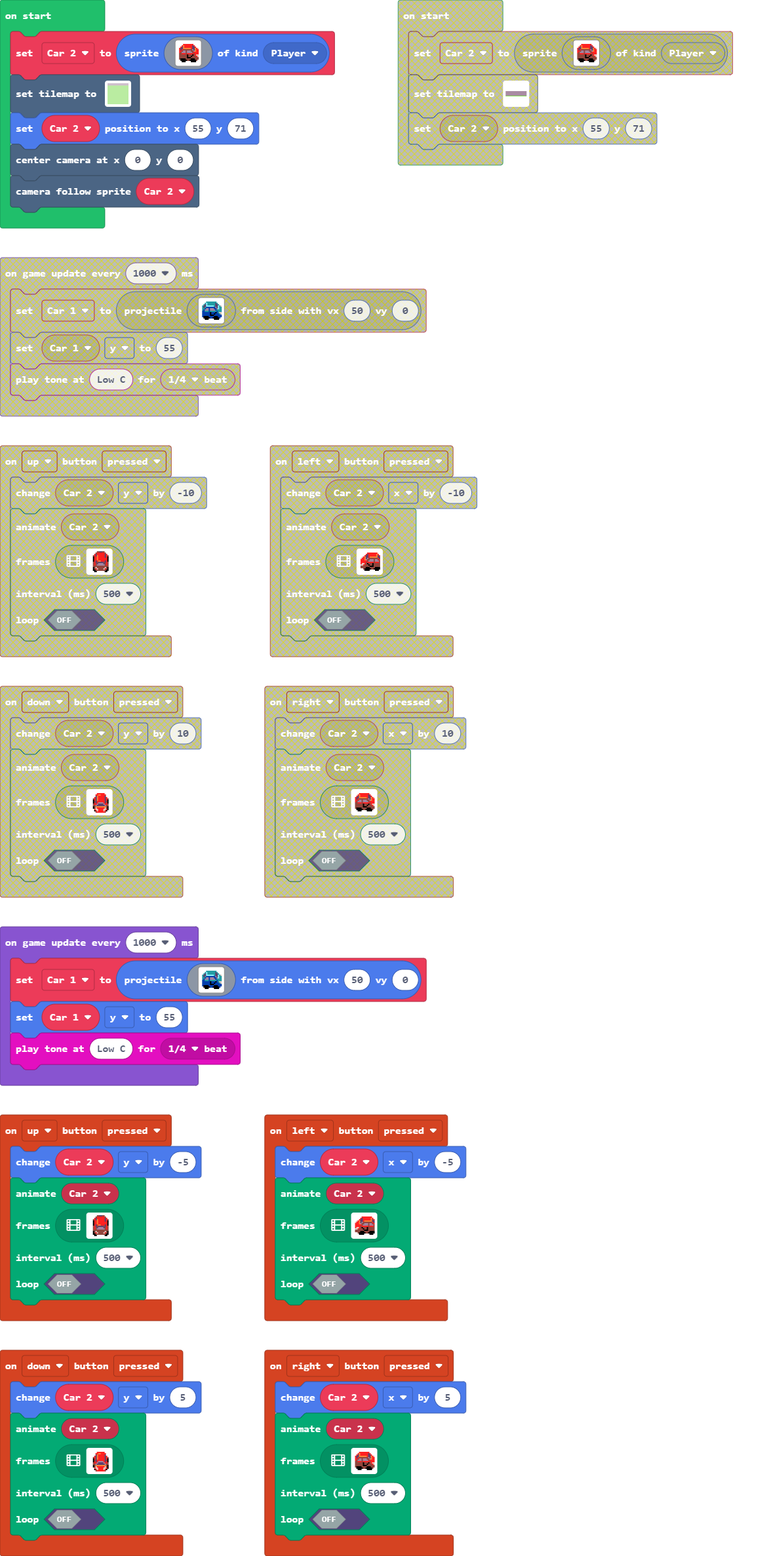
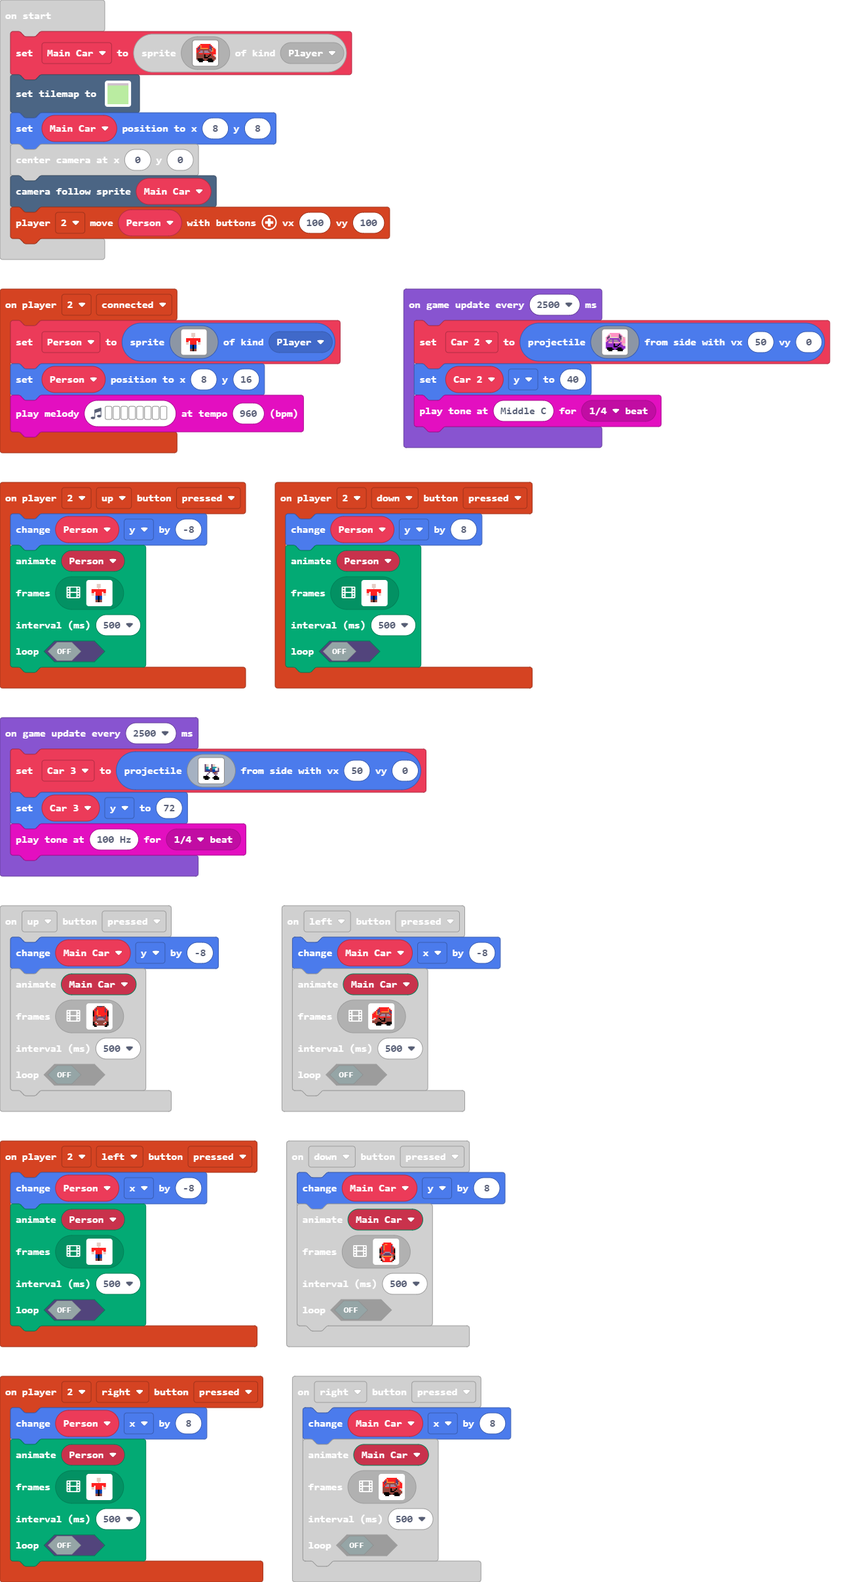
Update main.blocks, main.ts, tilemap.g.jres, tilemap.g.ts

diff --git a/main.ts b/main.ts
@@ -1,7 +1,12 @@
+enum ActionKind {
+    Walking,
+    Idle,
+    Jumping
+}
 controller.up.onEvent(ControllerButtonEvent.Pressed, function () {
-    Car_2.y += -5
+    Main_Car.y += -8
     animation.runImageAnimation(
-    Car_2,
+    Main_Car,
     [img`
         . . . . . . e e c c e e . . . . 
         . . . . . e 2 2 2 2 2 2 e . . . 
@@ -24,10 +29,36 @@ controller.up.onEvent(ControllerButtonEvent.Pressed, function () {
     false
     )
 })
-controller.left.onEvent(ControllerButtonEvent.Pressed, function () {
-    Car_2.x += -5
+controller.player2.onButtonEvent(ControllerButton.Down, ControllerButtonEvent.Pressed, function () {
+    Person.y += 8
     animation.runImageAnimation(
-    Car_2,
+    Person,
+    [img`
+        . . . . . . . . . . . . . . . . 
+        . . . . . . d d d . . . . . . . 
+        . . . . . . d d d . . . . . . . 
+        . . . . . . d d d . . . . . . . 
+        . . . . . . . d . . . . . . . . 
+        . . 2 2 2 2 2 2 2 2 2 2 2 . . . 
+        . . 2 2 2 2 2 2 2 2 2 2 2 . . . 
+        . . 2 2 . 2 2 2 2 2 . 2 2 . . . 
+        . . d d . 2 2 2 2 2 . d d . . . 
+        . . d d . 2 2 2 2 2 . d d . . . 
+        . . . . . 8 8 f 8 8 . . . . . . 
+        . . . . . 8 8 f 8 8 . . . . . . 
+        . . . . . 8 8 f 8 8 . . . . . . 
+        . . . . . e e f e e . . . . . . 
+        . . . . . e e f e e . . . . . . 
+        . . . . . . . . . . . . . . . . 
+        `],
+    500,
+    false
+    )
+})
+controller.left.onEvent(ControllerButtonEvent.Pressed, function () {
+    Main_Car.x += -8
+    animation.runImageAnimation(
+    Main_Car,
     [img`
         . . . . . . . . . . . . . . . . 
         . . . . . . 2 2 2 2 2 2 2 2 . . 
@@ -50,10 +81,36 @@ controller.left.onEvent(ControllerButtonEvent.Pressed, function () {
     false
     )
 })
-controller.right.onEvent(ControllerButtonEvent.Pressed, function () {
-    Car_2.x += 5
+controller.player2.onButtonEvent(ControllerButton.Up, ControllerButtonEvent.Pressed, function () {
+    Person.y += -8
     animation.runImageAnimation(
-    Car_2,
+    Person,
+    [img`
+        . . . . . . . . . . . . . . . . 
+        . . . . . . d d d . . . . . . . 
+        . . . . . . d d d . . . . . . . 
+        . . . . . . d d d . . . . . . . 
+        . . . . . . . d . . . . . . . . 
+        . . 2 2 2 2 2 2 2 2 2 2 2 . . . 
+        . . 2 2 2 2 2 2 2 2 2 2 2 . . . 
+        . . 2 2 . 2 2 2 2 2 . 2 2 . . . 
+        . . d d . 2 2 2 2 2 . d d . . . 
+        . . d d . 2 2 2 2 2 . d d . . . 
+        . . . . . 8 8 f 8 8 . . . . . . 
+        . . . . . 8 8 f 8 8 . . . . . . 
+        . . . . . 8 8 f 8 8 . . . . . . 
+        . . . . . e e f e e . . . . . . 
+        . . . . . e e f e e . . . . . . 
+        . . . . . . . . . . . . . . . . 
+        `],
+    500,
+    false
+    )
+})
+controller.right.onEvent(ControllerButtonEvent.Pressed, function () {
+    Main_Car.x += 8
+    animation.runImageAnimation(
+    Main_Car,
     [img`
         . . . . . . . . . . . . . . . . 
         . . . . 2 2 2 2 2 2 2 2 . . . . 
@@ -76,10 +133,36 @@ controller.right.onEvent(ControllerButtonEvent.Pressed, function () {
     false
     )
 })
-controller.down.onEvent(ControllerButtonEvent.Pressed, function () {
-    Car_2.y += 5
+controller.player2.onButtonEvent(ControllerButton.Right, ControllerButtonEvent.Pressed, function () {
+    Person.x += 8
     animation.runImageAnimation(
-    Car_2,
+    Person,
+    [img`
+        . . . . . . . . . . . . . . . . 
+        . . . . . . d d d . . . . . . . 
+        . . . . . . d d d . . . . . . . 
+        . . . . . . d d d . . . . . . . 
+        . . . . . . . d . . . . . . . . 
+        . . 2 2 2 2 2 2 2 2 2 2 2 . . . 
+        . . 2 2 2 2 2 2 2 2 2 2 2 . . . 
+        . . 2 2 . 2 2 2 2 2 . 2 2 . . . 
+        . . d d . 2 2 2 2 2 . d d . . . 
+        . . d d . 2 2 2 2 2 . d d . . . 
+        . . . . . 8 8 f 8 8 . . . . . . 
+        . . . . . 8 8 f 8 8 . . . . . . 
+        . . . . . 8 8 f 8 8 . . . . . . 
+        . . . . . e e f e e . . . . . . 
+        . . . . . e e f e e . . . . . . 
+        . . . . . . . . . . . . . . . . 
+        `],
+    500,
+    false
+    )
+})
+controller.down.onEvent(ControllerButtonEvent.Pressed, function () {
+    Main_Car.y += 8
+    animation.runImageAnimation(
+    Main_Car,
     [img`
         . . . . . . . . . . . . . . . . 
         . . . . . . 2 2 2 2 2 2 . . . . 
@@ -102,9 +185,60 @@ controller.down.onEvent(ControllerButtonEvent.Pressed, function () {
     false
     )
 })
+controller.player2.onButtonEvent(ControllerButton.Left, ControllerButtonEvent.Pressed, function () {
+    Person.x += -8
+    animation.runImageAnimation(
+    Person,
+    [img`
+        . . . . . . . . . . . . . . . . 
+        . . . . . . d d d . . . . . . . 
+        . . . . . . d d d . . . . . . . 
+        . . . . . . d d d . . . . . . . 
+        . . . . . . . d . . . . . . . . 
+        . . 2 2 2 2 2 2 2 2 2 2 2 . . . 
+        . . 2 2 2 2 2 2 2 2 2 2 2 . . . 
+        . . 2 2 . 2 2 2 2 2 . 2 2 . . . 
+        . . d d . 2 2 2 2 2 . d d . . . 
+        . . d d . 2 2 2 2 2 . d d . . . 
+        . . . . . 8 8 f 8 8 . . . . . . 
+        . . . . . 8 8 f 8 8 . . . . . . 
+        . . . . . 8 8 f 8 8 . . . . . . 
+        . . . . . e e f e e . . . . . . 
+        . . . . . e e f e e . . . . . . 
+        . . . . . . . . . . . . . . . . 
+        `],
+    500,
+    false
+    )
+})
+controller.player2.onEvent(ControllerEvent.Connected, function () {
+    Person = sprites.create(img`
+        . . . . . . . . . . . . . . . . 
+        . . . . . . d d d . . . . . . . 
+        . . . . . . d d d . . . . . . . 
+        . . . . . . d d d . . . . . . . 
+        . . . . . . . d . . . . . . . . 
+        . . 2 2 2 2 2 2 2 2 2 2 2 . . . 
+        . . 2 2 2 2 2 2 2 2 2 2 2 . . . 
+        . . 2 2 . 2 2 2 2 2 . 2 2 . . . 
+        . . d d . 2 2 2 2 2 . d d . . . 
+        . . d d . 2 2 2 2 2 . d d . . . 
+        . . . . . 8 8 f 8 8 . . . . . . 
+        . . . . . 8 8 f 8 8 . . . . . . 
+        . . . . . 8 8 f 8 8 . . . . . . 
+        . . . . . e e f e e . . . . . . 
+        . . . . . e e f e e . . . . . . 
+        . . . . . . . . . . . . . . . . 
+        `, SpriteKind.Player)
+    Person.setPosition(8, 16)
+    music.playMelody("C D E G A C5 C5 C5 ", 960)
+})
 let Car_1: Sprite = null
+let Car_3: Sprite = null
 let Car_2: Sprite = null
-Car_2 = sprites.create(img`
+let Person: Sprite = null
+let Main_Car: Sprite = null
+Main_Car = sprites.create(img`
     . . . . . . . . . . . . . . . . 
     . . . . 2 2 2 2 2 2 2 2 . . . . 
     . . . 2 4 2 2 2 2 2 2 c 2 . . . 
@@ -122,7 +256,7 @@ Car_2 = sprites.create(img`
     . . . f f f . . . . f f f f . . 
     . . . . . . . . . . . . . . . . 
     `, SpriteKind.Player)
-tiles.setTilemap(tiles.createTilemap(hex`4000400001010101010101010101010101010101010101010101010101010101010101010101010101010101010101010101010101010101010101010101010101010101010101010101010101010101010101010101010101010101010101010101010101010101010101010101010101010101010101010101010101010101010101010101010101010101010101010101010101010101010101010101010101010101010101010101010101010101010101010101010101010101010101010101010101010101010101010101010101010101010101010101010101010101010101010101010101010101010101010101010101010101010101010101010101010101010101010101010101010101010101010101010101010101010101010101010101010101010101010101010101010101010101010101010101010101010101010101010101010101010101010101010101010101010101010101010101010101010101010101010101010101010101010101010101010101010101010101010101010101010101010101010101010101010101010101010101010101010101010101010101010101010101010101010101010101010101010101010101010101020202020202020202020202020202020202020202020202020202020202020203030303030303030303030303030303030303030303030303030303030303030202020202020202020202020202020202020202020202020202020202020202020202020202020202020202020202020202020202020202020202020202020202020202020202020202020202020202020202020202020202020202020202020202020202020202020202020202020202020202020202020202020202020202020202020202020202020202020202020202020202020202020202020202020202020202020202020202020202020202020202020202020202020202020202020202020202020202020202020202020202020202020202020202020202020202020202020202020202020202020202020202020202020202020202020202020202020202020202020202020202020202020202020202020202020202020202020202020202020202020202020202020202020202020202020202020202020202020202020202020202020202020202020202020202020202020202020202020202020202020202020202020202020202020202020202020202020202020202020202020202020202020202020202020202020202020202020202020202020202020202020202020202020202020202020202020202020202020202020202020202020202020202020202020202020202020202020202020202020202020202020202020202020202020202020202020202020202020202020202020202020202020202020202020202020202020202020202020202020202020202020202020202020202020202020202020202020202020202020202020202020202020202020202020202020202020202020202020202020202020202020202020202020202020202020202020202020202020202020202020202020202020202020202020202020202020202020202020202020202020202020202020202020202020202020202020202020202020202020202020202020202020202020202020202020202020202020202020202020202020202020202020202020202020202020202020202020202020202020202020202020202020202020202020202020202020202020202020202020202020202020202020202020202020202020202020202020202020202020202020202020202020202020202020202020202020202020202020202020202020202020202020202020202020202020202020202020202020202020202020202020202020202020202020202020202020202020202020202020202020202020202020202020202020202020202020202020202020202020202020202020202020202020202020202020202020202020202020202020202020202020202020202020202020202020202020202020202020202020202020202020202020202020202020202020202020202020202020202020202020202020202020202020202020202020202020202020202020202020202020202020202020202020202020202020202020202020202020202020202020202020202020202020202020202020202020202020202020202020202020202020202020202020202020202020202020202020202020202020202020202020202020202020202020202020202020202020202020202020202020202020202020202020202020202020202020202020202020202020202020202020202020202020202020202020202020202020202020202020202020202020202020202020202020202020202020202020202020202020202020202020202020202020202020202020202020202020202020202020202020202020202020202020202020202020202020202020202020202020202020202020202020202020202020202020202020202020202020202020202020202020202020202020202020202020202020202020202020202020202020202020202020202020202020202020202020202020202020202020202020202020202020202020202020202020202020202020202020202020202020202020202020202020202020202020202020202020202020202020202020202020202020202020202020202020202020202020202020202020202020202020202020202020202020202020202020202020202020202020202020202020202020202020202020202020202020202020202020202020202020202020202020202020202020202020202020202020202020202020202020202020202020202020202020202020202020202020202020202020202020202020202020202020202020202020202020202020202020202020202020202020202020202020202020202020202020202020202020202020202020202020202020202020202020202020202020202020202020202020202020202020202020202020202020202020202020202020202020202020202020202020202020202020202020202020202020202020202020202020202020202020202020202020202020202020202020202020202020202020202020202020202020202020202020202020202020202020202020202020202020202020202020202020202020202020202020202020202020202020202020202020202020202020202020202020202020202020202020202020202020202020202020202020202020202020202020202020202020202020202020202020202020202020202020202020202020202020202020202020202020202020202020202020202020202020202020202020202020202020202020202020202020202020202020202020202020202020202020202020202020202020202020202020202020202020202020202020202020202020202020202020202020202020202020202020202020202020202020202020202020202020202020202020202020202020202020202020202020202020202020202020202020202020202020202020202020202020202020202020202020202020202020202020202020202020202020202020202020202020202020202020202020202020202020202020202020202020202020202020202020202020202020202020202020202020202020202020202020202020202020202020202020202020202020202020202020202020202020202020202020202020202020202020202020202020202020202020202020202020202020202020202020202020202020202020202020202020202020202020202020202020202020202020202020202020202020202020202020202020202020202020202020202020202020202020202020202020202020202020202020202020202020202020202020202020202020202020202020202020202020202020202020202020202020202020202020202020202020202020202020202020202020202020202020202020202020202020202020202020202020202020202020202020202020202020202020202020202020202020202020202020202020202020202020202020202020202020202020202020202020202020202020202020202020202020202020202020202020202020202020202020202020202020202020202020202020202020202020202020202020202020202020202020202020202020202020202020202020202020202020202020202020202020202020202020202020202020202020202020202020202020202020202020202020202020202020202020202020202020202020202020202020202020202020202020202020202020202020202020202020202020202020202020202020202020202020202020202020202020202020202020202020202020202020202020202020202020202020202020202020202020202020202020202020202020202020202020202020202020202020202020202020202020202020202020202020202020202020202020202020202020202020202020202020202020202020202020202020202020202020202020202020202020202020202020202020202020202020202020202020202020202020202020202020202020202020202020202020202020202020202020202020202020202020202020202020202020202020202020202020202020202020202020202020202020202020202020202020202020202020202020202020202020202020202020202020202020202020202020202020202020202020202020202020202020202020202020202020202020202020202020202020202020202020202020202020202020202020202020202020202020202020202020202020202020202020202020202020202020202020202020202020202020202020202020202020202020202020202020202020202020202020202020202020202020202020202020202020202020202020202020202020202020202020202020202020202020202020202020202020202020202020202020202020202020202020202020202020202020202020202020202020202020202020202020202020202020202020202020202020202020202020202020202020202020202020202020202020202020202020202020202020202020202020202020202020202020202020202020202020202020202020202020202020202020202020202020202020202020202020202020202020202020202020202020202020202020202020202020202020202020202020202020202020202020202020202020202020202020202020202020202020202020202020202020202020202020202020202020202020202020202020202020202020202020202020202020202020202020202020202020202020202020202020202020202020202020202020202020202020202020202020202020202020202020202020202020202020202020202020202020202020202020202020202020202020202020202020202020202020202020202020202020202020202020202020202020202020202020202020202020202020202020202020202020202`, img`
+tiles.setTilemap(tiles.createTilemap(hex`4000400001010101010101010101010101010101010101010101010101010101010101010101010101010101010101010101010101010101010101010101010101010101010101010101010101010101010101010101010101010101010101010101010101010101010101010101010101010101010101010101010101010101010101010101010101010101010101010101010101010101010101010101010101010101010101010101010101010101010101010101010101010101010101010101010101010101010101010101010101010101010101010101010101010101010101010101010101010101010101010101010101010101010101010101010101010101010101010101010101010101010101010101010101010101010101010101010101010101010101010101010101010101010101010101010101010101010101010101010101010101010101010101010101010101010101010101010101010101010101010101010101010101010101010101010101010101010101010101010101040101010101010101010101010101010101010101010101010101010101010101010101010101010101010101010101010101010101010101010101010101020502020202020202020202020202020202020202020202020202020202020203030303030303030303030303030303030303030303030303030303030303030205020202020202020202020202020202020202020202020202020202020202020202020202020202020202020202020202020202020202020202020202020202050202020202020202020202020202020202020202020202020202020202020202020202020202020202020202020202020202020202020202020202020202020502020202020202020202020202020202020202020202020202020202020202020202020202020202020202020202020202020202020202020202020202020202020202020202020202020202020202020202020202020202020202020202020202020202020202020202020202020202020202020202020202020202020202020202020202020202020202020202020202020202020202020202020202020202020202020202020202020202020202020202020202020202020202020202020202020202020202020202020202020202020202020202020202020202020202020202020202020202020202020202020202020202020202020202020202020202020202020202020202020202020202020202020202020202020202020202020202020202020202020202020202020202020202020202020202020202020202020202020202020202020202020202020202020202020202020202020202020202020202020202020202020202020202020202020202020202020202020202020202020202020202020202020202020202020202020202020202020202020202020202020202020202020202020202020202020202020202020202020202020202020202020202020202020202020202020202020202020202020202020202020202020202020202020202020202020202020202020202020202020202020202020202020202020202020202020202020202020202020202020202020202020202020202020202020202020202020202020202020202020202020202020202020202020202020202020202020202020202020202020202020202020202020202020202020202020202020202020202020202020202020202020202020202020202020202020202020202020202020202020202020202020202020202020202020202020202020202020202020202020202020202020202020202020202020202020202020202020202020202020202020202020202020202020202020202020202020202020202020202020202020202020202020202020202020202020202020202020202020202020202020202020202020202020202020202020202020202020202020202020202020202020202020202020202020202020202020202020202020202020202020202020202020202020202020202020202020202020202020202020202020202020202020202020202020202020202020202020202020202020202020202020202020202020202020202020202020202020202020202020202020202020202020202020202020202020202020202020202020202020202020202020202020202020202020202020202020202020202020202020202020202020202020202020202020202020202020202020202020202020202020202020202020202020202020202020202020202020202020202020202020202020202020202020202020202020202020202020202020202020202020202020202020202020202020202020202020202020202020202020202020202020202020202020202020202020202020202020202020202020202020202020202020202020202020202020202020202020202020202020202020202020202020202020202020202020202020202020202020202020202020202020202020202020202020202020202020202020202020202020202020202020202020202020202020202020202020202020202020202020202020202020202020202020202020202020202020202020202020202020202020202020202020202020202020202020202020202020202020202020202020202020202020202020202020202020202020202020202020202020202020202020202020202020202020202020202020202020202020202020202020202020202020202020202020202020202020202020202020202020202020202020202020202020202020202020202020202020202020202020202020202020202020202020202020202020202020202020202020202020202020202020202020202020202020202020202020202020202020202020202020202020202020202020202020202020202020202020202020202020202020202020202020202020202020202020202020202020202020202020202020202020202020202020202020202020202020202020202020202020202020202020202020202020202020202020202020202020202020202020202020202020202020202020202020202020202020202020202020202020202020202020202020202020202020202020202020202020202020202020202020202020202020202020202020202020202020202020202020202020202020202020202020202020202020202020202020202020202020202020202020202020202020202020202020202020202020202020202020202020202020202020202020202020202020202020202020202020202020202020202020202020202020202020202020202020202020202020202020202020202020202020202020202020202020202020202020202020202020202020202020202020202020202020202020202020202020202020202020202020202020202020202020202020202020202020202020202020202020202020202020202020202020202020202020202020202020202020202020202020202020202020202020202020202020202020202020202020202020202020202020202020202020202020202020202020202020202020202020202020202020202020202020202020202020202020202020202020202020202020202020202020202020202020202020202020202020202020202020202020202020202020202020202020202020202020202020202020202020202020202020202020202020202020202020202020202020202020202020202020202020202020202020202020202020202020202020202020202020202020202020202020202020202020202020202020202020202020202020202020202020202020202020202020202020202020202020202020202020202020202020202020202020202020202020202020202020202020202020202020202020202020202020202020202020202020202020202020202020202020202020202020202020202020202020202020202020202020202020202020202020202020202020202020202020202020202020202020202020202020202020202020202020202020202020202020202020202020202020202020202020202020202020202020202020202020202020202020202020202020202020202020202020202020202020202020202020202020202020202020202020202020202020202020202020202020202020202020202020202020202020202020202020202020202020202020202020202020202020202020202020202020202020202020202020202020202020202020202020202020202020202020202020202020202020202020202020202020202020202020202020202020202020202020202020202020202020202020202020202020202020202020202020202020202020202020202020202020202020202020202020202020202020202020202020202020202020202020202020202020202020202020202020202020202020202020202020202020202020202020202020202020202020202020202020202020202020202020202020202020202020202020202020202020202020202020202020202020202020202020202020202020202020202020202020202020202020202020202020202020202020202020202020202020202020202020202020202020202020202020202020202020202020202020202020202020202020202020202020202020202020202020202020202020202020202020202020202020202020202020202020202020202020202020202020202020202020202020202020202020202020202020202020202020202020202020202020202020202020202020202020202020202020202020202020202020202020202020202020202020202020202020202020202020202020202020202020202020202020202020202020202020202020202020202020202020202020202020202020202020202020202020202020202020202020202020202020202020202020202020202020202020202020202020202020202020202020202020202020202020202020202020202020202020202020202020202020202020202020202020202020202020202020202020202020202020202020202020202020202020202020202020202020202020202020202020202020202020202020202020202020202020202020202020202020202020202020202020202020202020202020202020202020202020202020202020202020202020202020202020202020202020202020202020202020202020202020202020202020202020202020202020202020202020202020202020202020202020202020202020202020202020202020202020202020202020202020202020202020202020202020202020202020202020202020202020202020202020202020202020202020202020202020202020202020202020202020202020202020202020202020202020202020202020202020202020202020202020202020202020202020202020202020202020202020202020202020202020202020202020202020202020202020202020202020202020202020202020202020202020202020202020202`, img`
     ................................................................
     ................................................................
     ................................................................
@@ -187,10 +321,55 @@ tiles.setTilemap(tiles.createTilemap(hex`400040000101010101010101010101010101010
     ................................................................
     ................................................................
     ................................................................
-    `, [myTiles.transparency16,sprites.vehicle.roadHorizontal,sprites.castle.tileGrass1,sprites.castle.tileGrass3], TileScale.Sixteen))
-Car_2.setPosition(55, 71)
+    `, [myTiles.transparency16,sprites.vehicle.roadHorizontal,sprites.castle.tileGrass1,sprites.castle.tileGrass3,sprites.vehicle.roadIntersection3,sprites.vehicle.roadVertical], TileScale.Sixteen))
+Main_Car.setPosition(8, 8)
 scene.centerCameraAt(0, 0)
-scene.cameraFollowSprite(Car_2)
+scene.cameraFollowSprite(Main_Car)
+controller.player2.moveSprite(Person)
+game.onUpdateInterval(2500, function () {
+    Car_2 = sprites.createProjectileFromSide(img`
+        . . . . . . . . . . . . . . . . 
+        . . . . 3 3 3 3 3 3 3 3 . . . . 
+        . . . 3 d 3 3 3 3 3 3 c 3 . . . 
+        . . 3 c d 3 3 3 3 3 3 c c 3 . . 
+        . 3 c c d d d d d d 3 c c d 3 d 
+        . 3 c 3 a a a a a a a b c d 3 3 
+        . 3 3 a b b a b b b a a b d 3 3 
+        . 3 a b b b a b b b b a 3 3 3 3 
+        . a a 3 3 3 a 3 3 3 3 3 a 3 3 3 
+        . a a a a a a f a a a f a 3 d d 
+        . a a a a a a f a a f a a a 3 d 
+        . a a a a a a f f f a a a a a a 
+        . a f f f f a a a a f f f a a a 
+        . . f f f f f a a f f f f f a . 
+        . . . f f f . . . . f f f f . . 
+        . . . . . . . . . . . . . . . . 
+        `, 50, 0)
+    Car_2.y = 40
+    music.playTone(262, music.beat(BeatFraction.Quarter))
+})
+game.onUpdateInterval(2500, function () {
+    Car_3 = sprites.createProjectileFromSide(img`
+        . . . . . . . . . . . . . . . . 
+        . . . . . . . . . . . . . . . . 
+        . . . . . . . . . . . . . . . . 
+        . . . c d d . . c d d . . . . . 
+        . . . c d d . . c d d . . . . . 
+        . . . c 6 6 . . c 6 6 6 d d . . 
+        . . . c 6 6 . e c 6 6 . . c . . 
+        . . . c 8 8 8 e c 8 8 . . c . . 
+        . . . c c c c c c 8 8 c c c . . 
+        . . . . . . c . . c e e b . . . 
+        . . . . . c . . . . c b b . . . 
+        . . . . c . . . . . . c . . . . 
+        . . f f f f . . . . f f f . . . 
+        . . f f f f f . . f f f f f . . 
+        . . . f f f . . . . f f f f . . 
+        . . . . . . . . . . . . . . . . 
+        `, 50, 0)
+    Car_3.y = 72
+    music.playTone(100, music.beat(BeatFraction.Quarter))
+})
 game.onUpdateInterval(1000, function () {
     Car_1 = sprites.createProjectileFromSide(img`
         . . . . . . . . . . . . . . . . 

diff --git a/tilemap.g.ts b/tilemap.g.ts
@@ -2,6 +2,8 @@
 namespace myTiles {
     //% fixedInstance jres blockIdentity=images._tile
     export const transparency16 = image.ofBuffer(hex``);
+    //% fixedInstance jres blockIdentity=images._tile
+    export const tile1 = image.ofBuffer(hex``);
 
 }
 // Auto-generated code. Do not edit.
